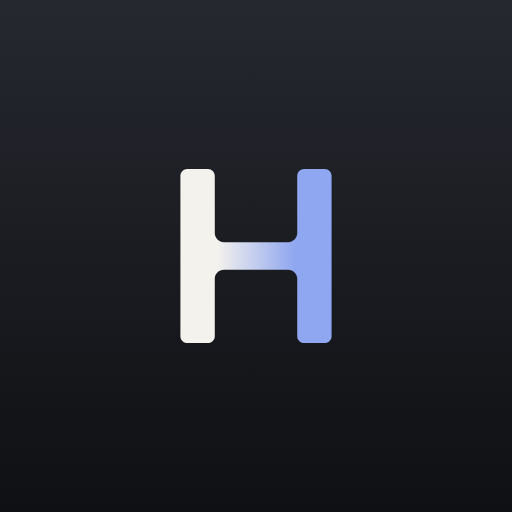
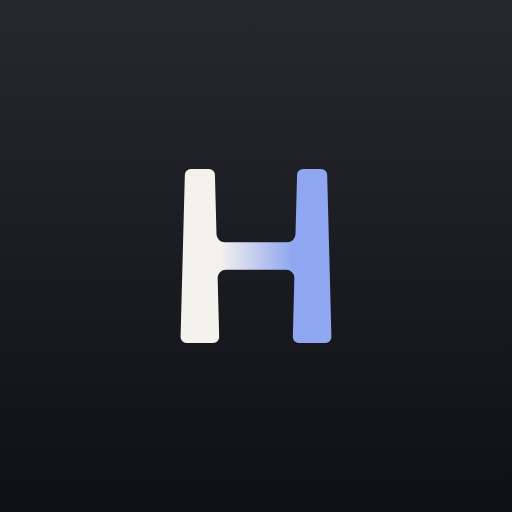
Hantari mark: back to the flared bridge piers, polished
Keeps the original Două maluri silhouette (piers that widen at the base) as one
continuous shape with rounded corners, curved span joints and a single gradient.

Claude-Session: https://claude.ai/code/session_01GvLDDMAvBjyEh5HQysKRcM

diff --git a/src/components/Logo.tsx b/src/components/Logo.tsx
@@ -2,16 +2,16 @@
  * The Hantari mark: an H drawn as a bridge between two banks — business (left, ink) and
  * AI (right, blue) — joined by a span that carries one colour into the other.
  *
- * One continuous shape on a 66 × 76 grid: straight pillars (crisp at every size), softly
- * rounded outer corners and curved joints where the span meets the pillars, filled with a
- * single gradient (no seams). The OG image and icon generators use the same path.
+ * One continuous shape on a 66 × 76 grid: two piers that flare out towards their base,
+ * softly rounded outer corners and curved joints where the span meets the piers, filled
+ * with a single gradient (no seams). The OG image and icon generators use the same path.
  *
  * tone: "duo" (ink → blue, for light backgrounds), "duo-dark" (cream → light blue, for dark
  * backgrounds) or "mono" (one colour, follows the text colour).
  */
 export const BRIDGE_VIEWBOX = "0 0 66 76";
 export const BRIDGE_PATH =
-  "M3 0H12C13.657 0 15 1.343 15 3V28C15 30.21 16.79 32 19 32H47C49.21 32 51 30.21 51 28V3C51 1.343 52.343 0 54 0H63C64.657 0 66 1.343 66 3V73C66 74.657 64.657 76 63 76H54C52.343 76 51 74.657 51 73V48C51 45.79 49.21 44 47 44H19C16.79 44 15 45.79 15 48V73C15 74.657 13.657 76 12 76H3C1.343 76 0 74.657 0 73V3C0 1.343 1.343 0 3 0Z";
+  "M1.933 2.532A2.6 2.6 0 0 1 4.532 0L12.468 0A2.6 2.6 0 0 1 15.067 2.532L15.75 28.495A3.6 3.6 0 0 0 19.349 32L46.651 32A3.6 3.6 0 0 0 50.25 28.495L50.933 2.532A2.6 2.6 0 0 1 53.532 0L61.468 0A2.6 2.6 0 0 1 64.067 2.532L65.93 73.332A2.6 2.6 0 0 1 63.331 76L51.669 76A2.6 2.6 0 0 1 49.07 73.332L49.745 47.695A3.6 3.6 0 0 0 46.146 44L19.854 44A3.6 3.6 0 0 0 16.255 47.695L16.93 73.332A2.6 2.6 0 0 1 14.331 76L2.669 76A2.6 2.6 0 0 1 0.07 73.332Z";
 
 const TONES = {
   duo: ["#191A1C", "#2E4FC4"],
@@ -41,8 +41,8 @@ export function HMark({
       <defs>
         <linearGradient id={grad} gradientUnits="userSpaceOnUse" x1="0" y1="0" x2="66" y2="0">
           <stop offset="0" stopColor={left} />
-          <stop offset="0.24" stopColor={left} />
-          <stop offset="0.76" stopColor={right} />
+          <stop offset="0.258" stopColor={left} />
+          <stop offset="0.742" stopColor={right} />
           <stop offset="1" stopColor={right} />
         </linearGradient>
       </defs>

diff --git a/src/app/[locale]/opengraph-image.tsx b/src/app/[locale]/opengraph-image.tsx
@@ -29,8 +29,8 @@ const COPY = {
 
 // The bridge H (see BRIDGE_* in components/Logo.tsx), as an SVG string on its 66 × 76 grid
 const bridge = (left: string, right: string, id: string, transform = "") =>
-  `<g transform="${transform}"><defs><linearGradient id="${id}" gradientUnits="userSpaceOnUse" x1="0" y1="0" x2="66" y2="0"><stop offset="0" stop-color="${left}"/><stop offset="0.24" stop-color="${left}"/><stop offset="0.76" stop-color="${right}"/><stop offset="1" stop-color="${right}"/></linearGradient></defs>` +
-  `<path d="M3 0H12C13.657 0 15 1.343 15 3V28C15 30.21 16.79 32 19 32H47C49.21 32 51 30.21 51 28V3C51 1.343 52.343 0 54 0H63C64.657 0 66 1.343 66 3V73C66 74.657 64.657 76 63 76H54C52.343 76 51 74.657 51 73V48C51 45.79 49.21 44 47 44H19C16.79 44 15 45.79 15 48V73C15 74.657 13.657 76 12 76H3C1.343 76 0 74.657 0 73V3C0 1.343 1.343 0 3 0Z" fill="url(#${id})"/></g>`;
+  `<g transform="${transform}"><defs><linearGradient id="${id}" gradientUnits="userSpaceOnUse" x1="0" y1="0" x2="66" y2="0"><stop offset="0" stop-color="${left}"/><stop offset="0.258" stop-color="${left}"/><stop offset="0.742" stop-color="${right}"/><stop offset="1" stop-color="${right}"/></linearGradient></defs>` +
+  `<path d="M1.933 2.532A2.6 2.6 0 0 1 4.532 0L12.468 0A2.6 2.6 0 0 1 15.067 2.532L15.75 28.495A3.6 3.6 0 0 0 19.349 32L46.651 32A3.6 3.6 0 0 0 50.25 28.495L50.933 2.532A2.6 2.6 0 0 1 53.532 0L61.468 0A2.6 2.6 0 0 1 64.067 2.532L65.93 73.332A2.6 2.6 0 0 1 63.331 76L51.669 76A2.6 2.6 0 0 1 49.07 73.332L49.745 47.695A3.6 3.6 0 0 0 46.146 44L19.854 44A3.6 3.6 0 0 0 16.255 47.695L16.93 73.332A2.6 2.6 0 0 1 14.331 76L2.669 76A2.6 2.6 0 0 1 0.07 73.332Z" fill="url(#${id})"/></g>`;
 
 // The dusk scene from the home page, with the H standing in the sky.
 const DUSK = `<svg xmlns="http://www.w3.org/2000/svg" viewBox="0 0 420 546" width="420" height="546">
